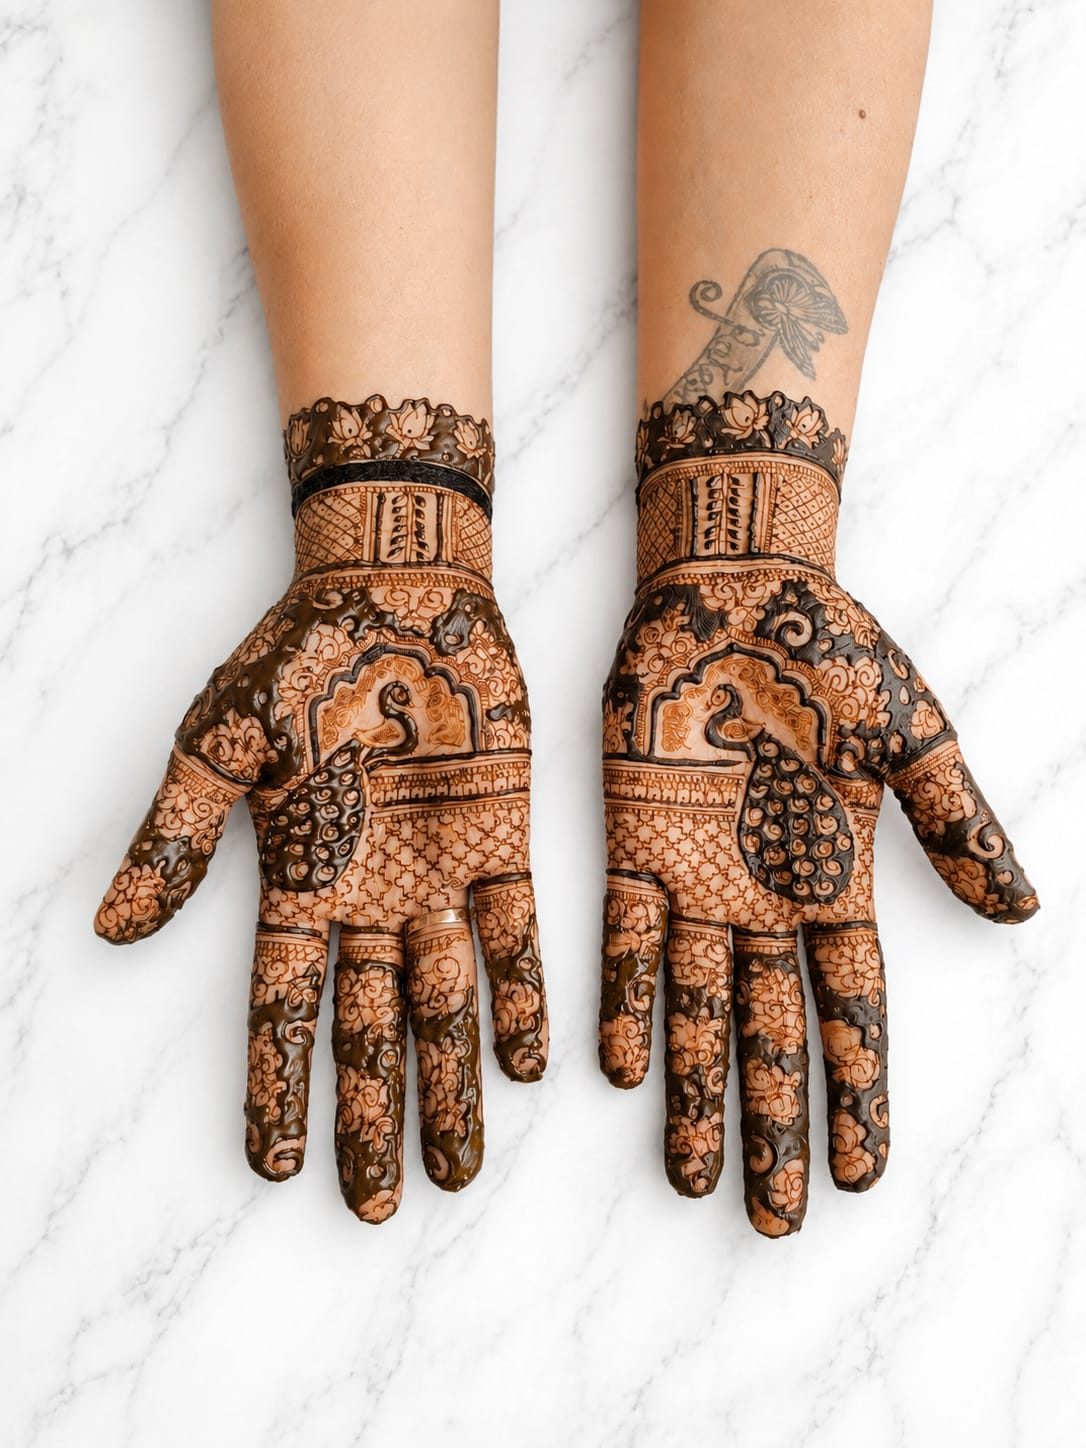
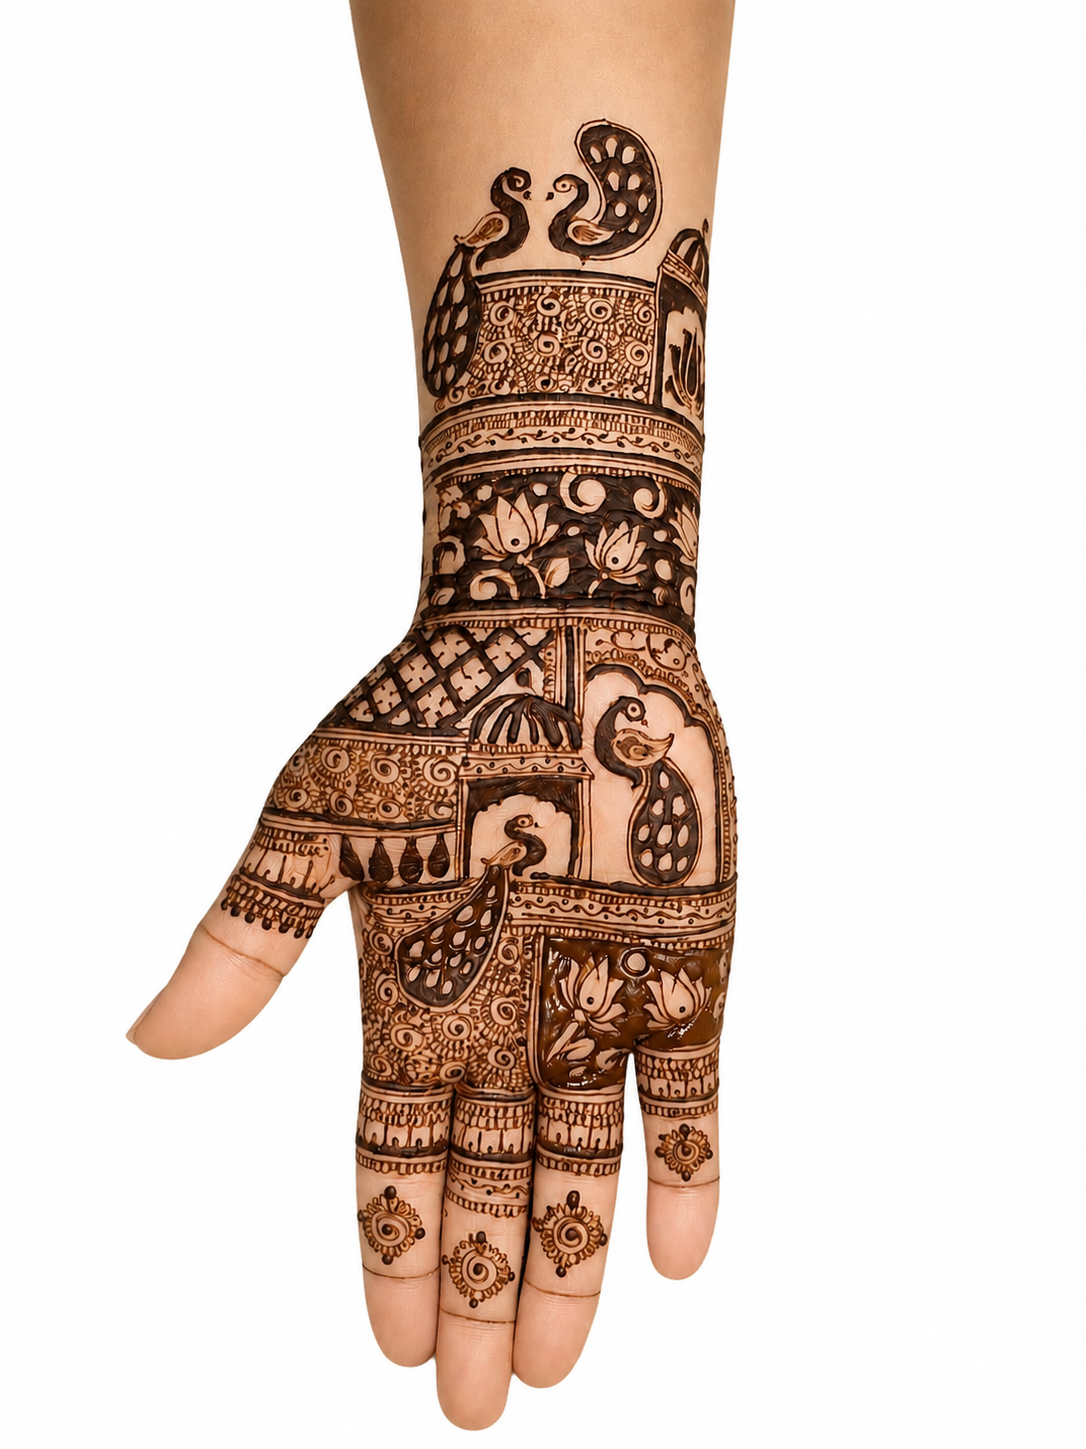
feat: add completed client work gallery page with lightbox functionality

diff --git a/app/portfolio/completed/page.tsx b/app/portfolio/completed/page.tsx
@@ -7,9 +7,10 @@ import { motion, AnimatePresence } from "framer-motion";
 import { Sparkles, X, ZoomIn } from "lucide-react";
 
 const COMPLETED_IMAGES = [
-  { id: 2, src: "/images/portfolio/completed/2.png" },
-  { id: 3, src: "/images/portfolio/completed/3.png" },
   { id: 4, src: "/images/portfolio/completed/4.png" },
+  { id: 3, src: "/images/portfolio/completed/3.png" },
+  { id: 2, src: "/images/portfolio/completed/2.png" },
+  { id: 1, src: "/images/portfolio/completed/1.png" },
 ];
 
 export default function CompletedPortfolio() {